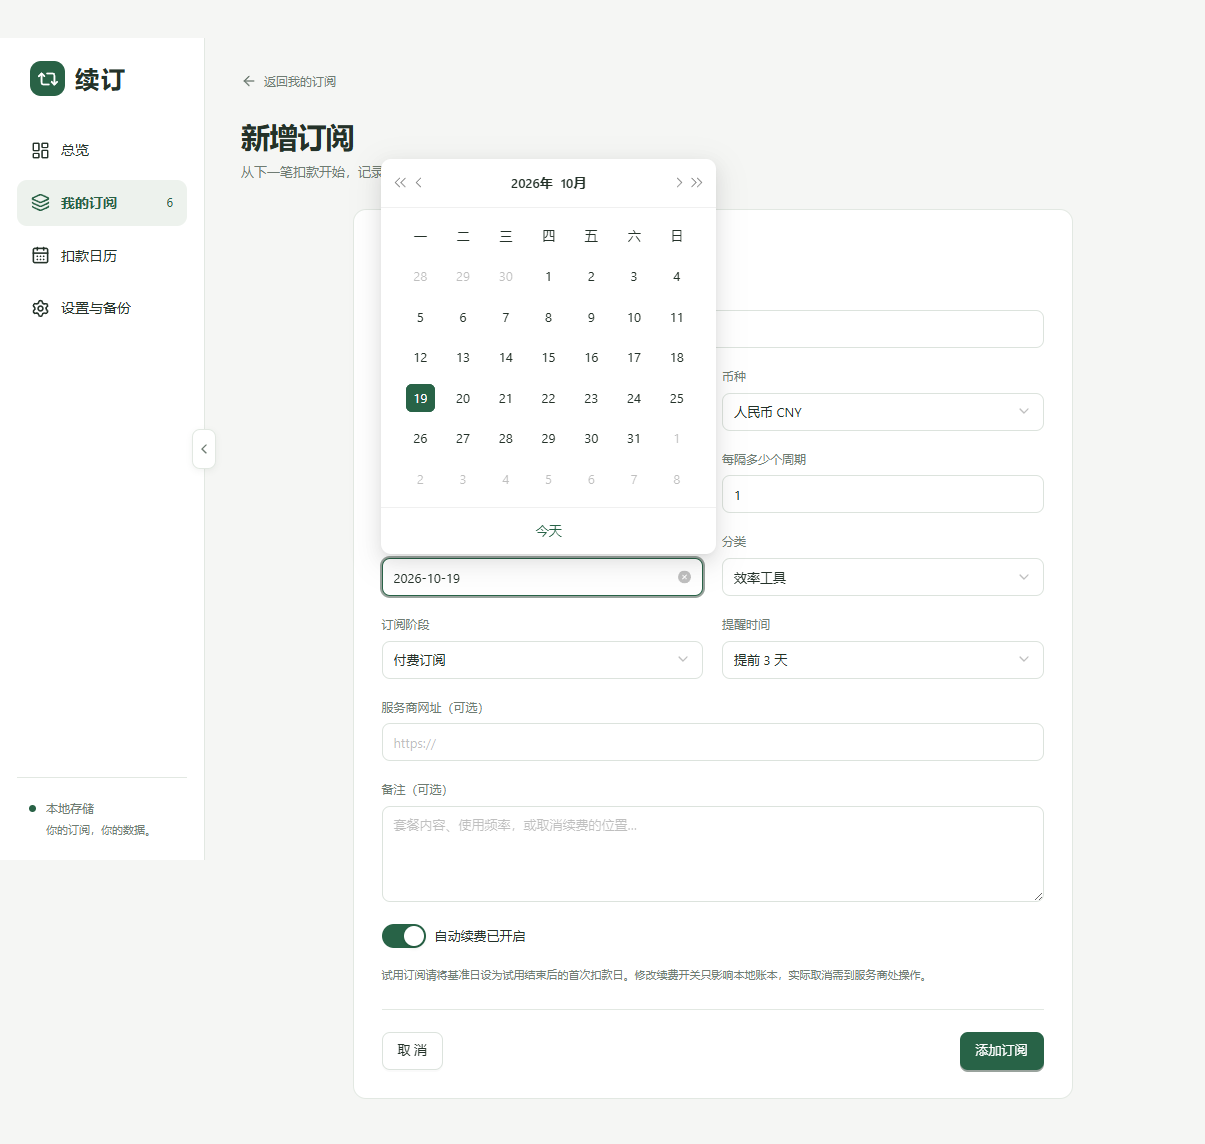
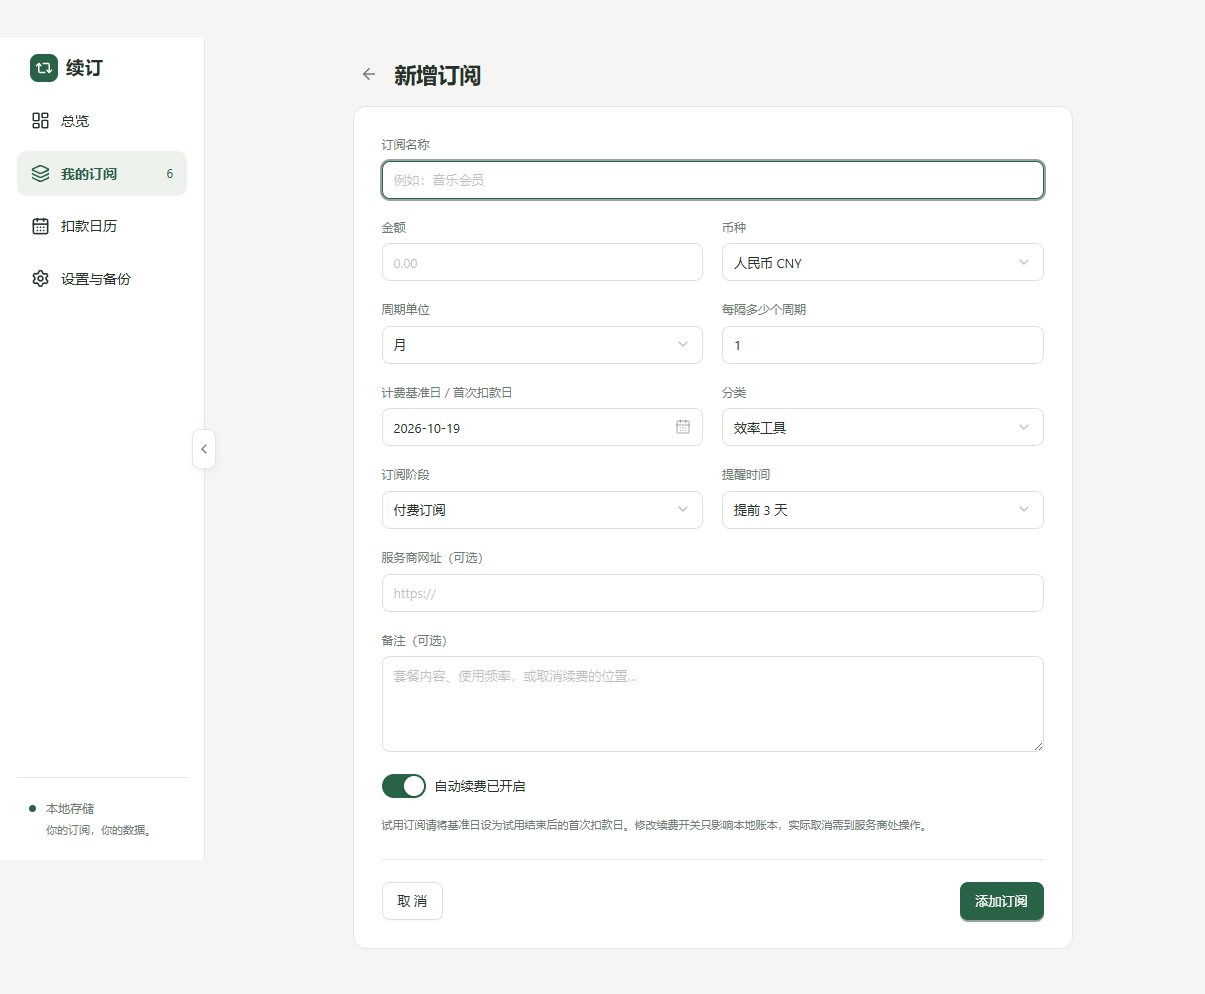
Compact branding and page headers to free up content space

diff --git a/src/renderer/src/styles.css b/src/renderer/src/styles.css
@@ -56,9 +56,9 @@ p {
   margin: 0;
 }
 h1 {
-  font-size: 29px;
+  font-size: 22px;
   font-weight: 600;
-  letter-spacing: -0.8px;
+  letter-spacing: -0.4px;
   line-height: 1.3;
   overflow-wrap: anywhere;
 }
@@ -128,7 +128,7 @@ small {
   position: sticky;
   top: 38px;
   height: calc(100vh - 38px);
-  padding: 22px 17px;
+  padding: 16px 17px 22px;
   display: flex;
   flex-direction: column;
   min-width: 0;
@@ -137,11 +137,11 @@ small {
 .brand {
   display: flex;
   align-items: center;
-  gap: 10px;
-  font-size: 24px;
-  letter-spacing: 2px;
+  gap: 8px;
+  font-size: 18px;
+  letter-spacing: 1px;
   font-weight: 600;
-  margin: 0 13px 30px;
+  margin: 0 13px 16px;
 }
 .brand-mark {
   display: flex;
@@ -149,9 +149,9 @@ small {
   justify-content: center;
   background: var(--brand);
   color: var(--on-brand);
-  width: 35px;
-  height: 35px;
-  border-radius: 11px;
+  width: 28px;
+  height: 28px;
+  border-radius: 8px;
   flex-shrink: 0;
 }
 .brand-name,
@@ -238,7 +238,7 @@ small {
   flex-shrink: 0;
 }
 .main {
-  padding: 30px 36px 45px;
+  padding: 20px 36px 45px;
   min-width: 0;
   width: 100%;
   max-width: 1350px;
@@ -249,10 +249,10 @@ small {
   align-items: center;
   justify-content: space-between;
   gap: 20px;
-  margin-bottom: 27px;
+  margin-bottom: 16px;
 }
 .page-head p {
-  margin-top: 7px;
+  margin-top: 4px;
   font-size: 13px;
 }
 .primary,
@@ -669,6 +669,26 @@ small {
   margin: auto;
   padding: 28px;
 }
+.form-page-head {
+  max-width: 720px;
+  margin: 0 auto 16px;
+  justify-content: flex-start;
+  gap: 10px;
+}
+.form-back {
+  width: 32px;
+  height: 32px;
+  padding: 0;
+  display: grid;
+  place-items: center;
+  border-radius: 8px;
+  color: var(--muted);
+  flex-shrink: 0;
+}
+.form-back:hover:not(:disabled) {
+  color: var(--brand);
+  background: var(--soft);
+}
 .subscription-form fieldset {
   margin: 0;
   padding: 0;
@@ -679,7 +699,7 @@ small {
   display: grid;
   grid-template-columns: 1fr 1fr;
   gap: 19px;
-  margin-top: 23px;
+  margin-top: 0;
 }
 .form-grid label {
   display: grid;
@@ -871,7 +891,7 @@ small {
     padding-right: 11px;
   }
   .main {
-    padding: 26px 24px;
+    padding: 20px 24px 26px;
   }
   .stat {
     padding: 18px;
@@ -910,7 +930,7 @@ small {
   }
   .brand {
     margin: 0 0 18px;
-    font-size: 20px;
+    font-size: 18px;
   }
   .sidebar-bottom {
     display: none;
@@ -927,7 +947,7 @@ small {
     display: none;
   }
   .main {
-    padding: 22px 18px;
+    padding: 20px 18px;
   }
   .stats {
     gap: 9px;
@@ -951,7 +971,7 @@ small {
     flex-wrap: wrap;
   }
   h1 {
-    font-size: 25px;
+    font-size: 22px;
   }
   .currency-picker {
     flex-direction: row;

diff --git a/src/renderer/src/App.tsx b/src/renderer/src/App.tsx
@@ -826,7 +826,7 @@ export function App() {
           </button>
           <div className="brand">
             <span className="brand-mark" aria-hidden="true">
-              <Repeat2 size={22} />
+              <Repeat2 size={18} />
             </span>
             <span className="brand-name">续订</span>
           </div>
@@ -977,19 +977,20 @@ function SubscriptionForm({
   }
   return (
     <>
-      <button className="back" disabled={busy} onClick={onCancel}>
-        <ArrowLeft size={16} />
-        {s ? '返回订阅详情' : '返回我的订阅'}
-      </button>
-      <header className="page-head">
-        <div>
-          <h1>{s ? '编辑订阅' : '新增订阅'}</h1>
-          <p>{s ? '更新账本信息，未来扣款计划会同步调整。' : '从下一笔扣款开始，记录这份订阅。'}</p>
-        </div>
+      <header className="page-head form-page-head">
+        <button
+          className="form-back"
+          disabled={busy}
+          onClick={onCancel}
+          aria-label={s ? '返回订阅详情' : '返回我的订阅'}
+          title={s ? '返回订阅详情' : '返回我的订阅'}
+        >
+          <ArrowLeft size={18} aria-hidden="true" />
+        </button>
+        <h1>{s ? '编辑订阅' : '新增订阅'}</h1>
       </header>
       <form className="subscription-form panel" onSubmit={submit}>
         <fieldset disabled={busy}>
-          <h2>订阅信息</h2>
           <div className="form-grid">
             <label className="full">
               订阅名称
